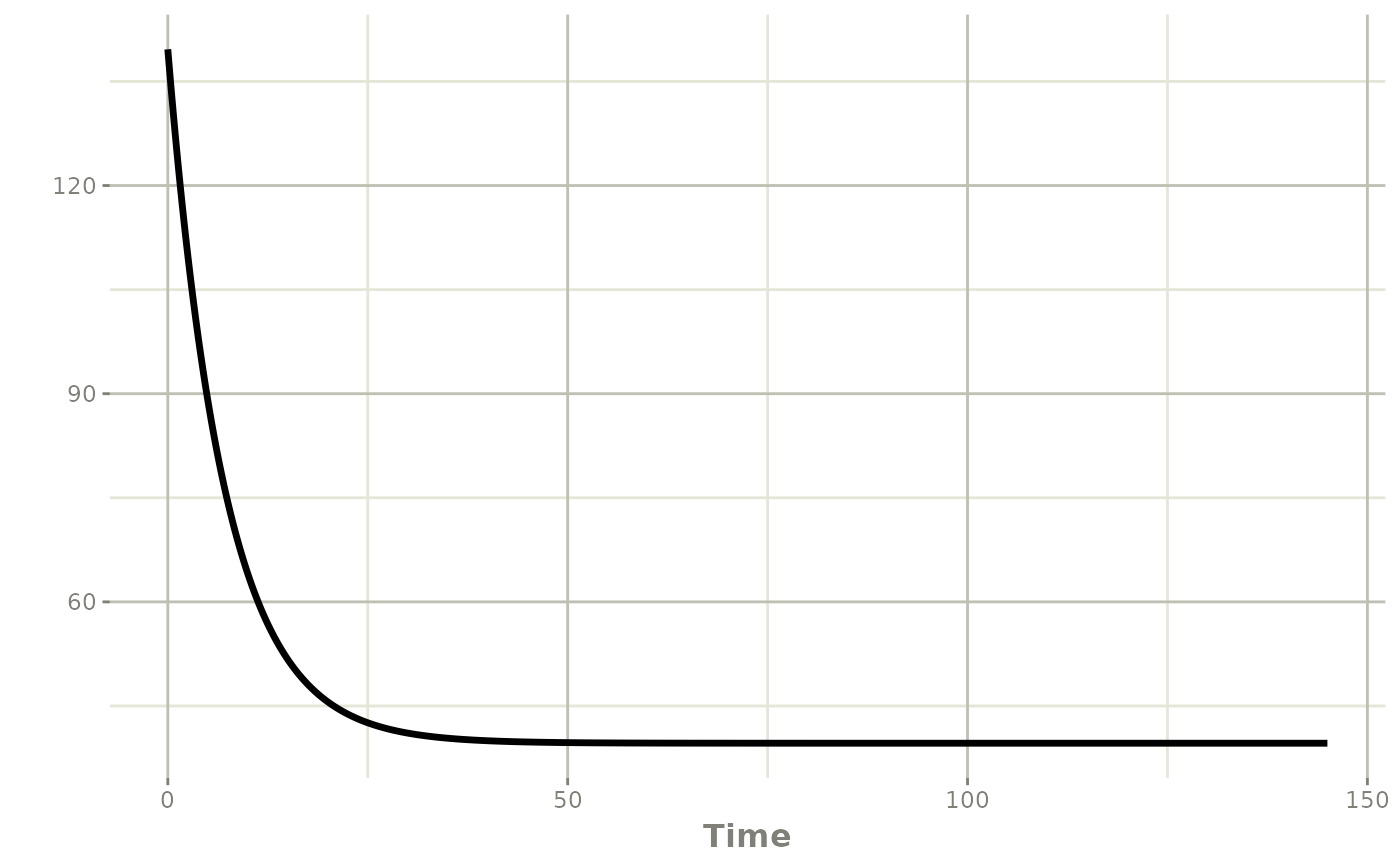
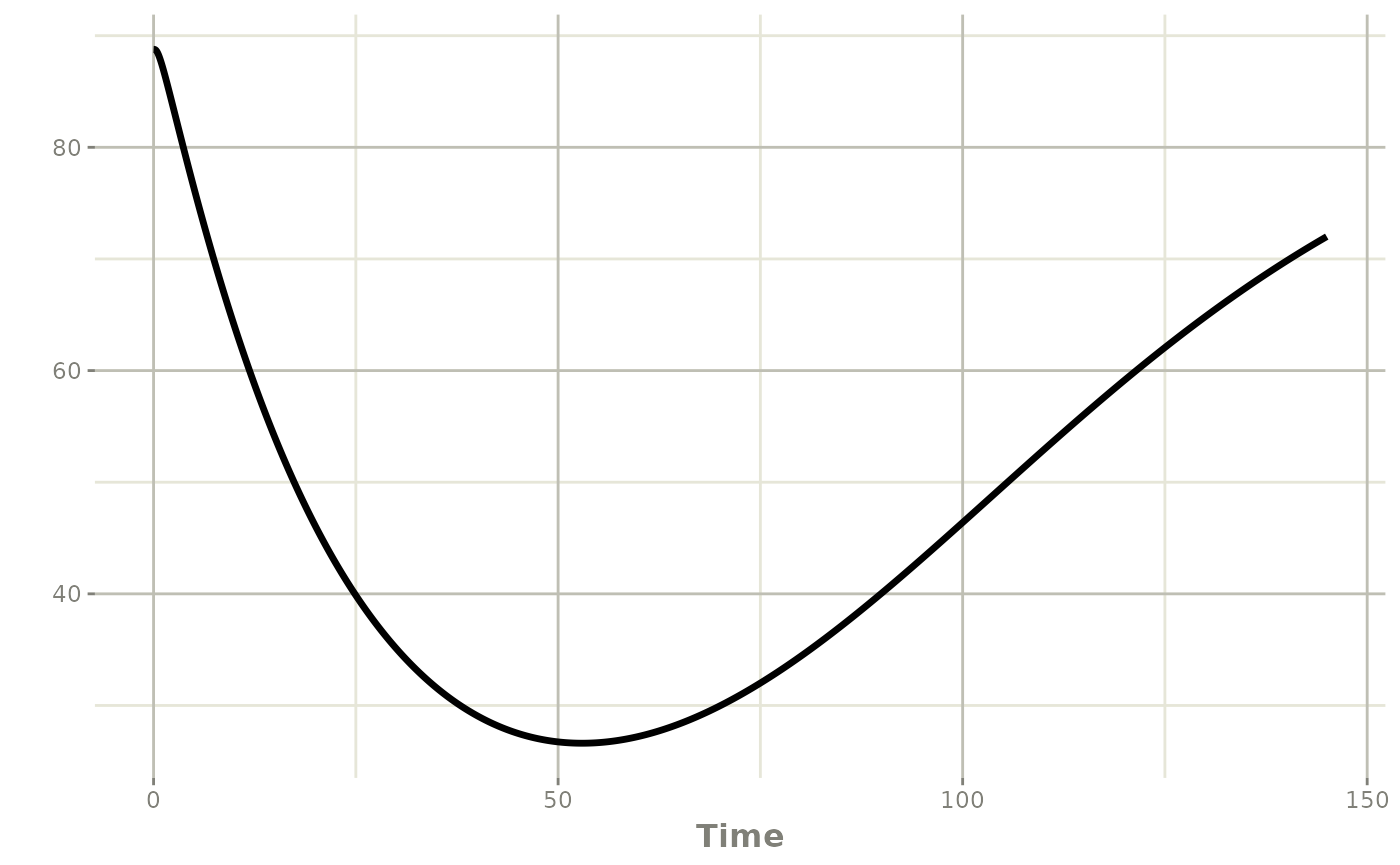
fix warfarin example page #57

Changed region(s): [[0.0307, 0.0312, 0.9829, 0.9364], [0.4914, 0.9364, 0.5529, 0.9988], [0.3686, 0.9052, 0.43, 0.9364]]

diff --git a/docs/articles/multiple_endpoints.html b/docs/articles/multiple_endpoints.html
@@ -101,7 +101,7 @@ documentation (<a href="https://nlmixr2.org/articles/multiple-endpoints.html" cl
 <div class="sourceCode" id="cb2"><pre class="downlit sourceCode r">
 <code class="sourceCode R"><span><span class="va">mod_warfarin_nlmixr</span> <span class="op">&lt;-</span> <span class="kw">function</span><span class="op">(</span><span class="op">)</span> <span class="op">{</span></span>
 <span>    <span class="fu">ini</span><span class="op">(</span><span class="op">{</span></span>
-<span>      <span class="co">#Fixed effects: population estimates </span></span>
+<span>      <span class="co">#Fixed effects: population estimates</span></span>
 <span>      <span class="va">THETA_ktr</span><span class="op">=</span><span class="fl">0.106</span></span>
 <span>      <span class="va">THETA_ka</span><span class="op">=</span><span class="op">-</span><span class="fl">0.087</span></span>
 <span>      <span class="va">THETA_cl</span><span class="op">=</span><span class="op">-</span><span class="fl">2.03</span></span>
@@ -110,7 +110,7 @@ documentation (<a href="https://nlmixr2.org/articles/multiple-endpoints.html" cl
 <span>      <span class="va">THETA_ec50</span><span class="op">=</span><span class="fl">0.00724</span></span>
 <span>      <span class="va">THETA_kout</span><span class="op">=</span><span class="op">-</span><span class="fl">2.9</span></span>
 <span>      <span class="va">THETA_e0</span><span class="op">=</span><span class="fl">4.57</span></span>
-<span>      </span>
+<span></span>
 <span>      <span class="co">#Random effects: inter-individual variability</span></span>
 <span>      <span class="va">ETA_ktr</span> <span class="op">~</span> <span class="fl">1.024695</span></span>
 <span>      <span class="va">ETA_ka</span> <span class="op">~</span> <span class="fl">0.9518403</span></span>
@@ -120,7 +120,7 @@ documentation (<a href="https://nlmixr2.org/articles/multiple-endpoints.html" cl
 <span>      <span class="va">ETA_ec50</span> <span class="op">~</span> <span class="fl">0.7204165</span></span>
 <span>      <span class="va">ETA_kout</span> <span class="op">~</span> <span class="fl">0.3563706</span></span>
 <span>      <span class="va">ETA_e0</span> <span class="op">~</span> <span class="fl">0.2660827</span></span>
-<span>      </span>
+<span></span>
 <span>      <span class="co">#Unexplained residual variability</span></span>
 <span>      <span class="va">cp.sd</span> <span class="op">&lt;-</span> <span class="fl">0.144</span></span>
 <span>      <span class="va">cp.prop.sd</span> <span class="op">&lt;-</span> <span class="fl">0.15</span></span>
@@ -136,27 +136,29 @@ documentation (<a href="https://nlmixr2.org/articles/multiple-endpoints.html" cl
 <span>      <span class="va">ec50</span> <span class="op">=</span>  <span class="fu"><a href="https://rdrr.io/r/base/Log.html" class="external-link">exp</a></span><span class="op">(</span><span class="va">THETA_ec50</span> <span class="op">+</span> <span class="va">ETA_ec50</span><span class="op">)</span></span>
 <span>      <span class="va">kout</span> <span class="op">=</span> <span class="fu"><a href="https://rdrr.io/r/base/Log.html" class="external-link">exp</a></span><span class="op">(</span><span class="va">THETA_kout</span> <span class="op">+</span> <span class="va">ETA_kout</span><span class="op">)</span></span>
 <span>      <span class="va">e0</span> <span class="op">=</span> <span class="fu"><a href="https://rdrr.io/r/base/Log.html" class="external-link">exp</a></span><span class="op">(</span><span class="va">THETA_e0</span> <span class="op">+</span> <span class="va">ETA_e0</span><span class="op">)</span></span>
-<span>      </span>
+<span></span>
 <span>      <span class="co">#Structural model defined using ordinary differential equations (ODE)</span></span>
 <span>      <span class="va">DCP</span> <span class="op">=</span> <span class="va">center</span><span class="op">/</span><span class="va">v</span></span>
 <span>      <span class="va">PD</span><span class="op">=</span><span class="fl">1</span><span class="op">-</span><span class="va">emax</span><span class="op">*</span><span class="va">DCP</span><span class="op">/</span><span class="op">(</span><span class="va">ec50</span><span class="op">+</span><span class="va">DCP</span><span class="op">)</span></span>
-<span>      </span>
+<span></span>
 <span>      <span class="fu">effect</span><span class="op">(</span><span class="fl">0</span><span class="op">)</span> <span class="op">=</span> <span class="va">e0</span></span>
 <span>      <span class="va">kin</span> <span class="op">=</span> <span class="va">e0</span><span class="op">*</span><span class="va">kout</span></span>
-<span>      </span>
+<span></span>
 <span>      <span class="va">d</span><span class="op">/</span><span class="fu"><a href="https://rdrr.io/r/stats/TDist.html" class="external-link">dt</a></span><span class="op">(</span><span class="va">depot</span><span class="op">)</span> <span class="op">=</span> <span class="op">-</span><span class="va">ktr</span> <span class="op">*</span> <span class="va">depot</span></span>
 <span>      <span class="va">d</span><span class="op">/</span><span class="fu"><a href="https://rdrr.io/r/stats/TDist.html" class="external-link">dt</a></span><span class="op">(</span><span class="va">gut</span><span class="op">)</span> <span class="op">=</span>  <span class="va">ktr</span> <span class="op">*</span> <span class="va">depot</span> <span class="op">-</span><span class="va">ka</span> <span class="op">*</span> <span class="va">gut</span></span>
 <span>      <span class="va">d</span><span class="op">/</span><span class="fu"><a href="https://rdrr.io/r/stats/TDist.html" class="external-link">dt</a></span><span class="op">(</span><span class="va">center</span><span class="op">)</span> <span class="op">=</span>  <span class="va">ka</span> <span class="op">*</span> <span class="va">gut</span> <span class="op">-</span> <span class="va">cl</span> <span class="op">/</span> <span class="va">v</span> <span class="op">*</span> <span class="va">center</span></span>
 <span>      <span class="va">d</span><span class="op">/</span><span class="fu"><a href="https://rdrr.io/r/stats/TDist.html" class="external-link">dt</a></span><span class="op">(</span><span class="va">effect</span><span class="op">)</span> <span class="op">=</span> <span class="va">kin</span><span class="op">*</span><span class="va">PD</span> <span class="op">-</span><span class="va">kout</span><span class="op">*</span><span class="va">effect</span></span>
-<span>      </span>
+<span></span>
 <span>      <span class="va">cp</span> <span class="op">=</span> <span class="va">center</span> <span class="op">/</span> <span class="va">v</span></span>
 <span>      <span class="va">pca</span> <span class="op">=</span> <span class="va">effect</span></span>
-<span>      </span>
+<span></span>
 <span>      <span class="co">#Model for unexplained residual variability</span></span>
 <span>      <span class="va">cp</span> <span class="op">~</span> <span class="fu">add</span><span class="op">(</span><span class="va">cp.sd</span><span class="op">)</span> <span class="op">+</span> <span class="fu">prop</span><span class="op">(</span><span class="va">cp.prop.sd</span><span class="op">)</span></span>
 <span>      <span class="va">pca</span> <span class="op">~</span> <span class="fu">add</span><span class="op">(</span><span class="va">pca.sd</span><span class="op">)</span></span>
 <span>    <span class="op">}</span><span class="op">)</span></span>
-<span>  <span class="op">}</span></span></code></pre></div>
+<span><span class="op">}</span></span>
+<span></span>
+<span><span class="va">mod_warfarin_nlmixr</span> <span class="op">&lt;-</span> <span class="fu">mod_warfarin_nlmixr</span><span class="op">(</span><span class="op">)</span></span></code></pre></div>
 </div>
 <div class="section level3">
 <h3 id="data-first-subject-from-the-warfarin-dataset">data: first subject from the warfarin dataset<a class="anchor" aria-label="anchor" href="#data-first-subject-from-the-warfarin-dataset"></a>
@@ -187,13 +189,12 @@ documentation (<a href="https://nlmixr2.org/articles/multiple-endpoints.html" cl
 <code><a href="../reference/poso_estim_map.html">poso_estim_map()</a></code></p>
 <div class="sourceCode" id="cb4"><pre class="downlit sourceCode r">
 <code class="sourceCode R"><span><span class="va">map_warf_01</span>  <span class="op">&lt;-</span> <span class="fu"><a href="../reference/poso_estim_map.html">poso_estim_map</a></span><span class="op">(</span><span class="va">warf_01</span>,<span class="va">mod_warfarin_nlmixr</span><span class="op">)</span></span>
-<span><span class="co">#&gt; using C compiler: ‘gcc (Ubuntu 11.4.0-1ubuntu1~22.04) 11.4.0’</span></span>
 <span><span class="va">map_warf_01</span></span>
 <span><span class="co">#&gt; $eta</span></span>
 <span><span class="co">#&gt;     ETA_ktr      ETA_ka      ETA_cl       ETA_v    ETA_emax    ETA_ec50 </span></span>
-<span><span class="co">#&gt; -0.32052193 -0.54227235  0.79432182 -0.02986447  0.02383273 -0.28133882 </span></span>
+<span><span class="co">#&gt; -0.32297013 -0.54003647  0.79433822 -0.02976759  0.02346678 -0.28140889 </span></span>
 <span><span class="co">#&gt;    ETA_kout      ETA_e0 </span></span>
-<span><span class="co">#&gt; -0.30872226 -0.08386652 </span></span>
+<span><span class="co">#&gt; -0.30867037 -0.08384263 </span></span>
 <span><span class="co">#&gt; </span></span>
 <span><span class="co">#&gt; $model</span></span>
 <span><span class="co">#&gt; <span style="font-weight: bold;">── Solved rxode2 object ──</span></span></span>
@@ -201,11 +202,11 @@ documentation (<a href="https://nlmixr2.org/articles/multiple-endpoints.html" cl
 <span><span class="co">#&gt;   THETA_ktr    THETA_ka    THETA_cl     THETA_v  THETA_emax  THETA_ec50 </span></span>
 <span><span class="co">#&gt;  0.10600000 -0.08700000 -2.03000000  2.07000000  3.40000000  0.00724000 </span></span>
 <span><span class="co">#&gt;  THETA_kout    THETA_e0       cp.sd  cp.prop.sd      pca.sd     ETA_ktr </span></span>
-<span><span class="co">#&gt; -2.90000000  4.57000000  0.14400000  0.15000000  3.91000000 -0.32052193 </span></span>
+<span><span class="co">#&gt; -2.90000000  4.57000000  0.14400000  0.15000000  3.91000000 -0.32297013 </span></span>
 <span><span class="co">#&gt;      ETA_ka      ETA_cl       ETA_v    ETA_emax    ETA_ec50    ETA_kout </span></span>
-<span><span class="co">#&gt; -0.54227235  0.79432182 -0.02986447  0.02383273 -0.28133882 -0.30872226 </span></span>
+<span><span class="co">#&gt; -0.54003647  0.79433822 -0.02976759  0.02346678 -0.28140889 -0.30867037 </span></span>
 <span><span class="co">#&gt;      ETA_e0 </span></span>
-<span><span class="co">#&gt; -0.08386652 </span></span>
+<span><span class="co">#&gt; -0.08384263 </span></span>
 <span><span class="co">#&gt; <span style="font-weight: bold;">── Initial Conditions (</span><span style="color: #0000BB; font-weight: bold;">$inits</span><span style="font-weight: bold;">): ──</span></span></span>
 <span><span class="co">#&gt;  depot    gut center effect </span></span>
 <span><span class="co">#&gt;      0      0      0      0 </span></span>
@@ -213,12 +214,12 @@ documentation (<a href="https://nlmixr2.org/articles/multiple-endpoints.html" cl
 <span><span class="co">#&gt; <span style="color: #949494;"># A tibble: 1,451 × 18</span></span></span>
 <span><span class="co">#&gt;    time   ktr    ka    cl     v  emax  ec50   kout    e0    DCP    PD   kin</span></span>
 <span><span class="co">#&gt;   <span style="color: #949494; font-style: italic;">&lt;dbl&gt;</span> <span style="color: #949494; font-style: italic;">&lt;dbl&gt;</span> <span style="color: #949494; font-style: italic;">&lt;dbl&gt;</span> <span style="color: #949494; font-style: italic;">&lt;dbl&gt;</span> <span style="color: #949494; font-style: italic;">&lt;dbl&gt;</span> <span style="color: #949494; font-style: italic;">&lt;dbl&gt;</span> <span style="color: #949494; font-style: italic;">&lt;dbl&gt;</span>  <span style="color: #949494; font-style: italic;">&lt;dbl&gt;</span> <span style="color: #949494; font-style: italic;">&lt;dbl&gt;</span>  <span style="color: #949494; font-style: italic;">&lt;dbl&gt;</span> <span style="color: #949494; font-style: italic;">&lt;dbl&gt;</span> <span style="color: #949494; font-style: italic;">&lt;dbl&gt;</span></span></span>
-<span><span class="co">#&gt; <span style="color: #BCBCBC;">1</span>   0   0.807 0.533 0.291  7.69 0.968 0.760 0.040<span style="text-decoration: underline;">4</span>  88.8 0      1      3.59</span></span>
-<span><span class="co">#&gt; <span style="color: #BCBCBC;">2</span>   0.1 0.807 0.533 0.291  7.69 0.968 0.760 0.040<span style="text-decoration: underline;">4</span>  88.8 0.026<span style="text-decoration: underline;">7</span> 0.967  3.59</span></span>
-<span><span class="co">#&gt; <span style="color: #BCBCBC;">3</span>   0.2 0.807 0.533 0.291  7.69 0.968 0.760 0.040<span style="text-decoration: underline;">4</span>  88.8 0.102  0.885  3.59</span></span>
-<span><span class="co">#&gt; <span style="color: #BCBCBC;">4</span>   0.3 0.807 0.533 0.291  7.69 0.968 0.760 0.040<span style="text-decoration: underline;">4</span>  88.8 0.219  0.783  3.59</span></span>
-<span><span class="co">#&gt; <span style="color: #BCBCBC;">5</span>   0.4 0.807 0.533 0.291  7.69 0.968 0.760 0.040<span style="text-decoration: underline;">4</span>  88.8 0.373  0.681  3.59</span></span>
-<span><span class="co">#&gt; <span style="color: #BCBCBC;">6</span>   0.5 0.807 0.533 0.291  7.69 0.968 0.760 0.040<span style="text-decoration: underline;">4</span>  88.8 0.557  0.590  3.59</span></span>
+<span><span class="co">#&gt; <span style="color: #BCBCBC;">1</span>   0   0.805 0.534 0.291  7.69 0.968 0.760 0.040<span style="text-decoration: underline;">4</span>  88.8 0      1      3.59</span></span>
+<span><span class="co">#&gt; <span style="color: #BCBCBC;">2</span>   0.1 0.805 0.534 0.291  7.69 0.968 0.760 0.040<span style="text-decoration: underline;">4</span>  88.8 0.026<span style="text-decoration: underline;">7</span> 0.967  3.59</span></span>
+<span><span class="co">#&gt; <span style="color: #BCBCBC;">3</span>   0.2 0.805 0.534 0.291  7.69 0.968 0.760 0.040<span style="text-decoration: underline;">4</span>  88.8 0.102  0.885  3.59</span></span>
+<span><span class="co">#&gt; <span style="color: #BCBCBC;">4</span>   0.3 0.805 0.534 0.291  7.69 0.968 0.760 0.040<span style="text-decoration: underline;">4</span>  88.8 0.219  0.783  3.59</span></span>
+<span><span class="co">#&gt; <span style="color: #BCBCBC;">5</span>   0.4 0.805 0.534 0.291  7.69 0.968 0.760 0.040<span style="text-decoration: underline;">4</span>  88.8 0.373  0.681  3.59</span></span>
+<span><span class="co">#&gt; <span style="color: #BCBCBC;">6</span>   0.5 0.805 0.534 0.291  7.69 0.968 0.760 0.040<span style="text-decoration: underline;">4</span>  88.8 0.557  0.590  3.59</span></span>
 <span><span class="co">#&gt; <span style="color: #949494;"># ℹ 1,445 more rows</span></span></span>
 <span><span class="co">#&gt; <span style="color: #949494;"># ℹ 6 more variables: cp &lt;dbl&gt;, pca &lt;dbl&gt;, depot &lt;dbl&gt;, gut &lt;dbl&gt;,</span></span></span>
 <span><span class="co">#&gt; <span style="color: #949494;">#   center &lt;dbl&gt;, effect &lt;dbl&gt;</span></span></span>
@@ -258,7 +259,7 @@ plotted</p>
 </div>
 
 <div class="pkgdown-footer-right">
-  <p>Site built with <a href="https://pkgdown.r-lib.org/" class="external-link">pkgdown</a> 2.1.0.</p>
+  <p>Site built with <a href="https://pkgdown.r-lib.org/" class="external-link">pkgdown</a> 2.1.1.</p>
 </div>
 
     </footer>

diff --git a/docs/articles/index.html b/docs/articles/index.html
@@ -76,7 +76,7 @@
 </div>
 
 <div class="pkgdown-footer-right">
-  <p>Site built with <a href="https://pkgdown.r-lib.org/" class="external-link">pkgdown</a> 2.1.0.</p>
+  <p>Site built with <a href="https://pkgdown.r-lib.org/" class="external-link">pkgdown</a> 2.1.1.</p>
 </div>
 
     </footer></div>
